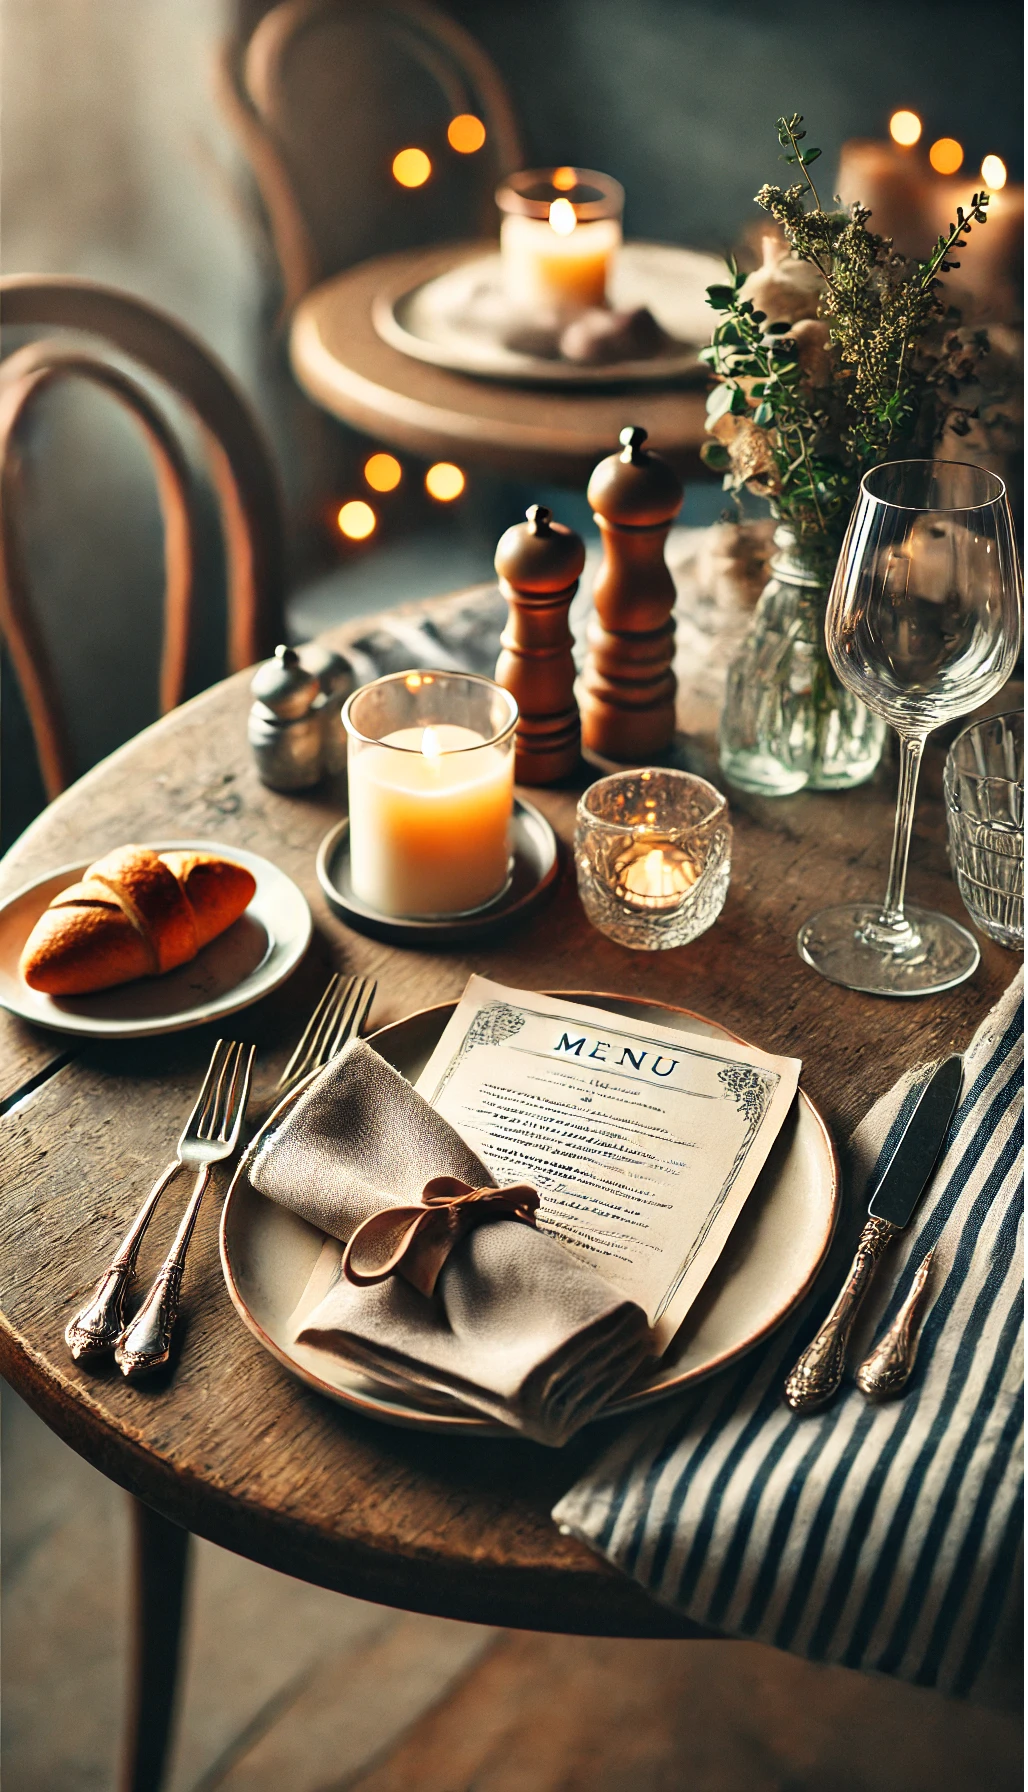
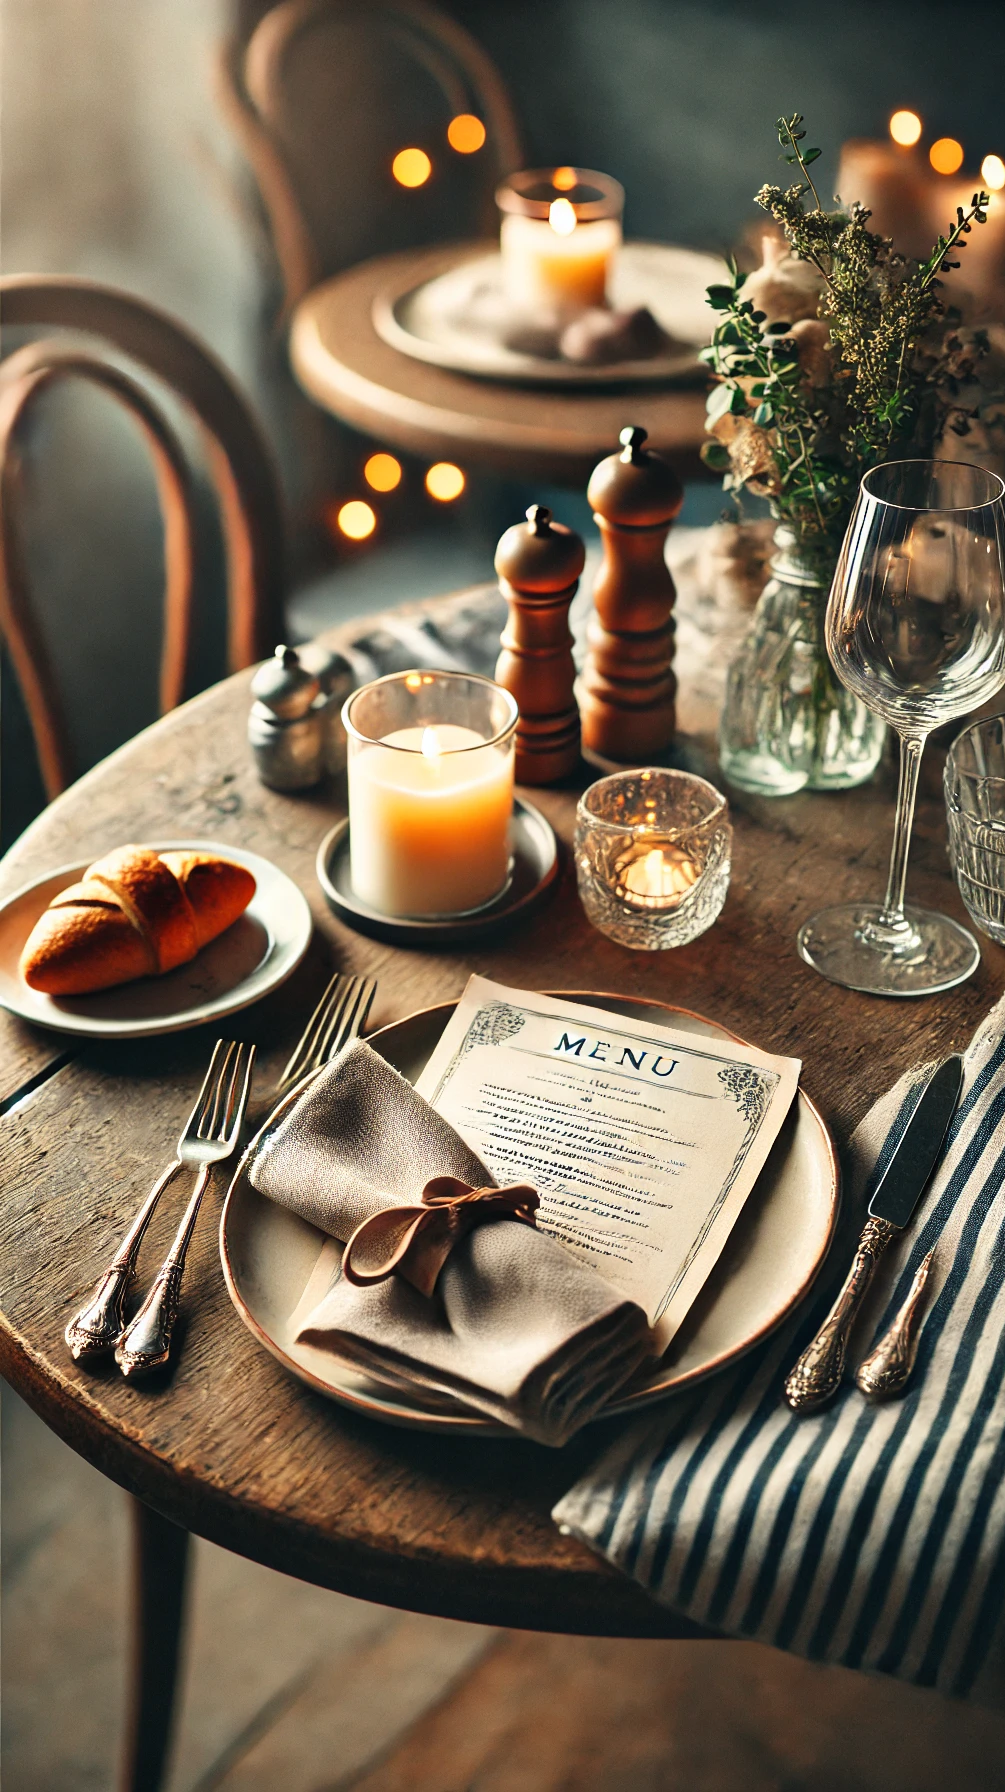
ajuste do seletor

diff --git a/Seletor_bebida.html b/Seletor_bebida.html
@@ -26,13 +26,42 @@ h1, h2, h3, h4, h5, h6 {
 <div class="image">
   <div class="image" id="image">
     <div class="w3-col m6 w3-padding-large">
-     <img src="https://newydistillery.com.au/cdn/shop/articles/DSC07436_edit_crop_reduced_3200x.jpg?v=1634186818" class="w3-image" alt="ct" width="1000" height="1400">
+     <img src="./img/menu restaurante.png" class="w3-image" alt="ct" width="1000" height="1400">
     </div>
     
 
 
 <form>
-	<h2>Vin</h2>
+  <h2>Selecione l'apéritif</h2>
+  <form action="/action_page.php">
+    <input type="checkbox" class="rounded-checkbox" id="l'apéritif1" name="Bruschetta" value="l'apéritif"> <label for="l'apéritif1"> Bruschetta</label><br>
+    <input type="checkbox" class="rounded-checkbox" id="l'apéritif2" name="Tapenade Provençal" value="l'apéritif"> <label for="l'apéritif2"> Tapenade Provençal</label><br>
+    <input type="checkbox" class="rounded-checkbox" id="l'apéritif3" name="Vol-au-vent de Cogumelos" value="l'apéritif"> <label for="l'apéritif3"> Vol-au-vent de Cogumelos</label><br>
+    <input type="checkbox" class="rounded-checkbox" id="l'apéritif4" name="Gougères" value="l'apéritif"> <label for="l'apéritif4"> Gougères</label><br>
+    <input type="checkbox" class="rounded-checkbox" id="l'apéritif5" name="Mini Quiches" value="l'apéritif"> <label for="l'apéritif5"> Mini Quiches</label><br><br> 
+  <h2>Selecione sua entrée</h2>
+  <form action="/action_page.php">
+    <input type="checkbox" class="rounded-checkbox" id="entrée1" name="Quiche Lorraine" value="entrée"> <label for="entrée1"> Quiche Lorraine</label><br>
+    <input type="checkbox" class="rounded-checkbox" id="entrée2" name="Velouté de legumes" value="entrée"> <label for="entrée2"> Velouté de legumes</label><br>
+    <input type="checkbox" class="rounded-checkbox" id="entrée3" name="Sopa de cebola gratinada" value="entrée"> <label for="entrée3"> Sopa de cebola gratinada</label><br>
+    <input type="checkbox" class="rounded-checkbox" id="entrée4" name="Salada composta" value="entrée"> <label for="entrée4"> Salada composta</label><br>
+    <input type="checkbox" class="rounded-checkbox" id="entrée5" name="Escalope Foie Gras" value="entrée"> <label for="entrée5"> Escalope Foie Gras</label><br>
+    <input type="checkbox" class="rounded-checkbox" id="entrée6" name="Salmão defumado" value="entrée"> <label for="entrée6"> Salmão defumado</label><br><br>  
+  <h2>Selecione le plat principal</h2>
+  <form action="/action_page.php">
+    <input type="checkbox" class="rounded-checkbox" id="principal1" name="Spaghetti bolognaise" value="principal"> <label for="principal1"> Spaghetti bolognaise</label><br>
+    <input type="checkbox" class="rounded-checkbox" id="principal2" name="Escalope à la Milanaise" value="principal"> <label for="principal2"> Escalope à la Milanaise</label><br>
+    <input type="checkbox" class="rounded-checkbox" id="principal3" name="Ratatouille" value="principal"> <label for="principal2"> Ratatouille</label><br>
+    <input type="checkbox" class="rounded-checkbox" id="principal4" name="Risotto ai funghi" value="principal"> <label for="principal2"> Risotto ai funghi</label><br>
+    <input type="checkbox" class="rounded-checkbox" id="principal5" name="Ravioli vegetariano" value="principal"> <label for="principal2"> Ravioli vegetariano</label><br>
+    <input type="checkbox" class="rounded-checkbox" id="principal6" name="Paillard di Filetto" value="principal"> <label for="principal2"> Paillard di Filetto</label><br><br>
+  <h2>Selecione sua sobremesa</h2>
+  <form action="/action_page.php">
+    <input type="checkbox" class="rounded-checkbox" id="sobremesa1" name="Pavê" value="sobremesa"> <label for="sobremesa1"> Pavê</label><br>
+    <input type="checkbox" class="rounded-checkbox" id="sobremesa2" name="Torta de limão" value="sobremesa"> <label for="sobremesa2"> Torta de limão</label><br>
+    <input type="checkbox" class="rounded-checkbox" id="sobremesa3" name="Brownie" value="sobremesa"> <label for="sobremesa3"> Brownie</label><br>
+    <input type="checkbox" class="rounded-checkbox" id="sobremesa4" name="Mouse de maracujá" value="sobremesa"> <label for="sobremesa4"> Mouse de maracujá</label><br><br>
+	<h2>Vinhos</h2>
   <form action="/action_page.php">
     <input type="checkbox" class="rounded-checkbox" id="vin1" name="Cabernet Sauvignon" value="vin"> <label for="vin1"> Cabernet Sauvignon</label><br>
     <input type="checkbox" class="rounded-checkbox" id="vin2" name="Merlot" value="vin"> <label for="vin2"> Merlot</label><br>
